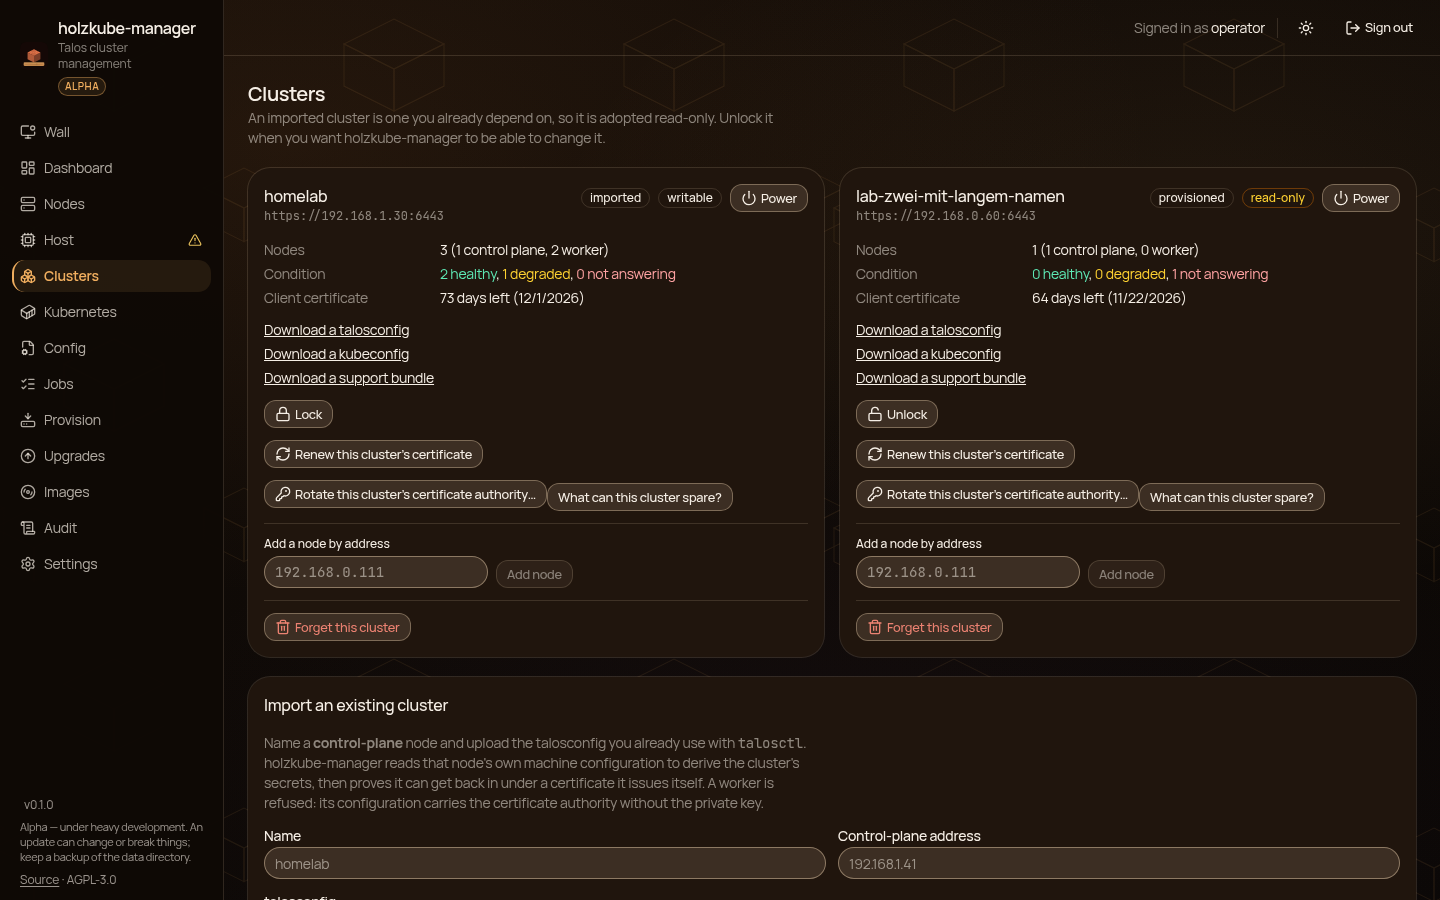
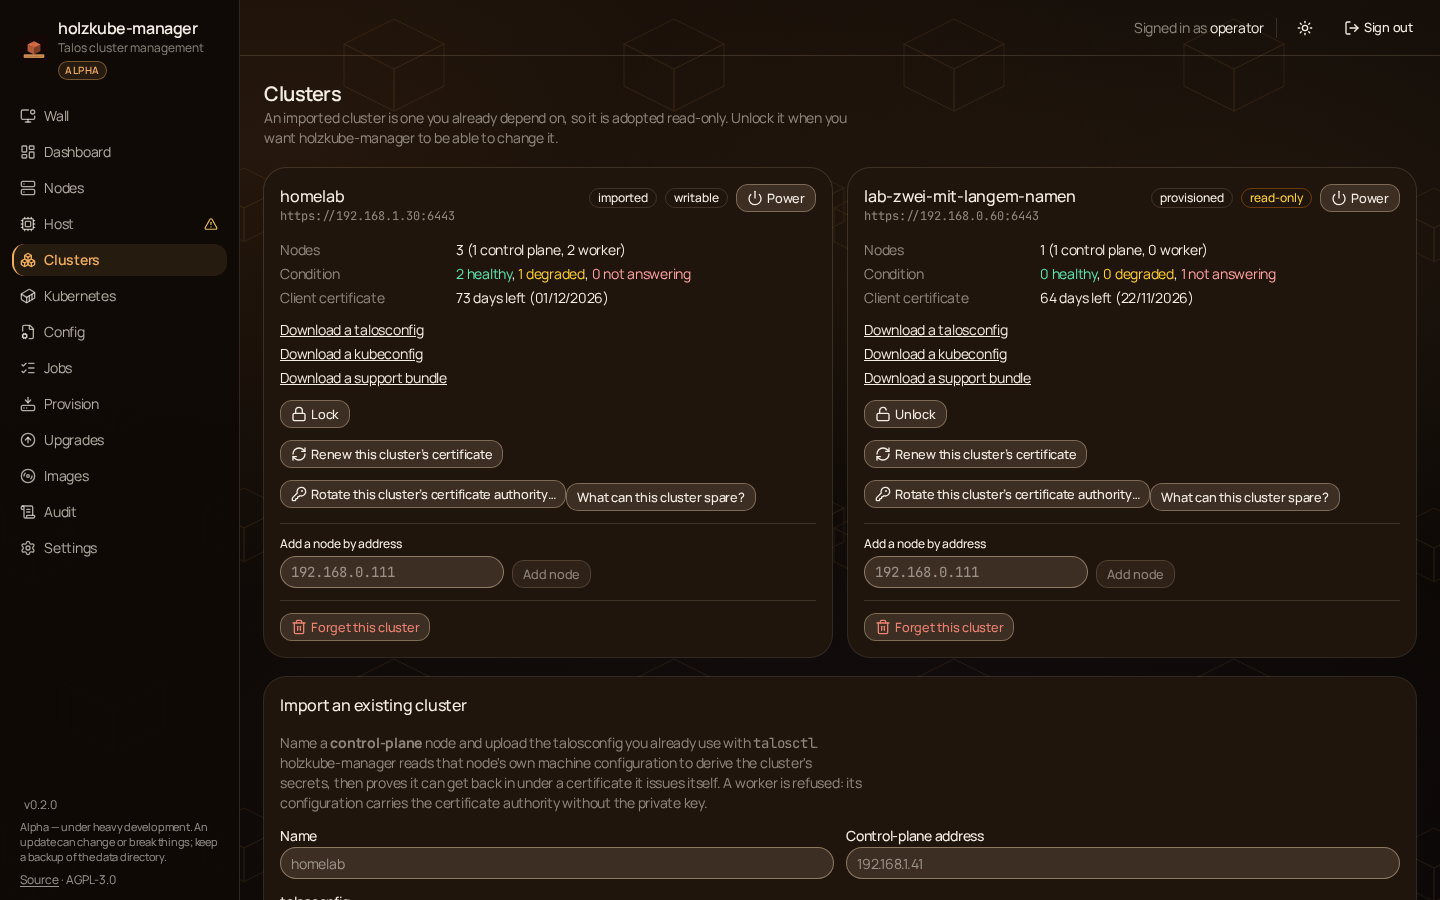
fix: the navigation's name and tagline fit on one line each
At 224px the text beside the mark had 145px: the tagline (146px) broke
onto two lines and the name, kept on one line, ran past the bar's edge
wherever the font rendered a little wider. The bar is 240px now; a
Chromium test requires 8px to spare on the desk and in the phone
drawer, seen red against 224px. Screenshots with the sidebar re-rendered
with a v0.2.0 binary.

diff --git a/web/src/components/Sidebar.browser.test.tsx b/web/src/components/Sidebar.browser.test.tsx
@@ -1,0 +1,111 @@
+import { QueryClient, QueryClientProvider } from '@tanstack/react-query'
+import {
+  createMemoryHistory,
+  createRootRoute,
+  createRoute,
+  createRouter,
+  Outlet,
+  RouterProvider,
+} from '@tanstack/react-router'
+import { cleanup, render, screen } from '@testing-library/react'
+import { afterEach, beforeEach, describe, expect, it, vi } from 'vitest'
+import { page } from 'vitest/browser'
+import { api, hostSchema } from '@/api'
+// Imported for its effect: the bar's width, the font and the nowrap come from
+// Tailwind classes and the Manrope face this entry point pulls in; without it
+// the measurement measures the browser's defaults and nothing of ours.
+import '@/index.css'
+import demo from '../../fixtures/demo.json'
+import { Sidebar } from './Sidebar'
+
+/**
+ * The brand block at the top of the navigation reads on one line each: the
+ * name, and the tagline under it.
+ *
+ * At 224px the text beside the mark had 145px; the tagline needs 146px and
+ * broke onto two lines, and the name, kept on one line by nowrap, ran past the
+ * bar's right edge wherever the font came out a little wider -- which is how
+ * it was noticed, on a picture of the app. Measured here in Chromium with the
+ * product's own font, on the desk and in the phone drawer.
+ */
+
+function renderSidebar(open: boolean) {
+  const rootRoute = createRootRoute({
+    component: () => (
+      <>
+        <Sidebar open={open} />
+        <Outlet />
+      </>
+    ),
+  })
+  const home = createRoute({ getParentRoute: () => rootRoute, path: '/', component: () => null })
+  const router = createRouter({
+    routeTree: rootRoute.addChildren([home]),
+    history: createMemoryHistory({ initialEntries: ['/'] }),
+  })
+  const client = new QueryClient({ defaultOptions: { queries: { retry: false } } })
+  render(
+    <QueryClientProvider client={client}>
+      <RouterProvider router={router} />
+    </QueryClientProvider>,
+  )
+}
+
+async function brandBlock() {
+  const nav = await screen.findByRole('navigation', { name: 'Main navigation' })
+  await document.fonts.ready
+  const name = await screen.findByText('holzkube-manager')
+  const tagline = screen.getByText('Talos cluster management')
+  return { nav, name, tagline }
+}
+
+/**
+ * Room each line must leave before the bar's edge. The same text comes out a
+ * few pixels wider from one machine's font rendering to the next -- in this
+ * browser the tagline needs exactly the 146px the old 224px bar left it, in the
+ * app it got 145px and broke -- so fitting with nothing to spare is the defect,
+ * not a pass.
+ */
+const SLACK_PX = 8
+
+function expectOneLineEach({ nav, name, tagline }: Awaited<ReturnType<typeof brandBlock>>) {
+  // The row the mark and the two lines sit in, inside the bar's padding and
+  // its own: its content edge is where a line stops being inside the brand
+  // block. (The column holding the lines is only as wide as its widest line,
+  // so measuring against it would always find exactly zero room.)
+  const row = (name.parentElement as HTMLElement).parentElement as HTMLElement
+  const inner =
+    row.getBoundingClientRect().right - Number.parseFloat(getComputedStyle(row).paddingRight)
+  expect(inner).toBeLessThanOrEqual(nav.getBoundingClientRect().right)
+  // The name ends inside the bar with room to spare, not on or past its border.
+  expect(name.getBoundingClientRect().right).toBeLessThanOrEqual(inner - SLACK_PX)
+  // The tagline is one line tall and ends inside the bar too.
+  const lineHeight = Number.parseFloat(getComputedStyle(tagline).lineHeight)
+  expect(tagline.getBoundingClientRect().height).toBeLessThan(lineHeight * 1.5)
+  expect(tagline.getBoundingClientRect().right).toBeLessThanOrEqual(inner - SLACK_PX)
+}
+
+beforeEach(() => {
+  const fixtures = demo as Record<string, unknown>
+  vi.spyOn(api, 'host').mockResolvedValue(hostSchema.parse(fixtures['/api/v1/host']))
+})
+
+afterEach(async () => {
+  cleanup()
+  vi.restoreAllMocks()
+  await page.viewport(1200, 900)
+})
+
+describe('the navigation brand block', () => {
+  it('keeps the name and the tagline on one line each at 1280 px', async () => {
+    await page.viewport(1280, 800)
+    renderSidebar(false)
+    expectOneLineEach(await brandBlock())
+  })
+
+  it('keeps them on one line each in the open drawer at 390 px', async () => {
+    await page.viewport(390, 844)
+    renderSidebar(true)
+    expectOneLineEach(await brandBlock())
+  })
+})

diff --git a/web/src/components/Sidebar.tsx b/web/src/components/Sidebar.tsx
@@ -201,7 +201,11 @@ export function Sidebar({ open = false, onNavigate }: { open?: boolean; onNaviga
     <nav
       aria-label="Main navigation"
       className={cn(
-        'flex h-full w-56 shrink-0 flex-col gap-1 border-r border-border bg-sidebar p-3',
+        // 240px and not 224: measured in Chromium with Manrope, the name needs
+        // 138px and the tagline 146px, and at 224px the text beside the mark
+        // had 145px -- the tagline broke onto two lines and, wherever the font
+        // renders a little wider, the name ran past the bar's edge.
+        'flex h-full w-60 shrink-0 flex-col gap-1 border-r border-border bg-sidebar p-3',
         // Below md: out of the flow, over the page, and off the left edge until
         // asked for. transform rather than display, so it slides rather than
         // appears -- on a phone an element that simply exists where nothing was
@@ -232,7 +236,9 @@ export function Sidebar({ open = false, onNavigate }: { open?: boolean; onNaviga
           <span className="font-heading whitespace-nowrap text-base font-semibold tracking-tight">
             holzkube-manager
           </span>
-          <p className="text-xs text-muted-foreground">Talos cluster management</p>
+          <p className="whitespace-nowrap text-xs text-muted-foreground">
+            Talos cluster management
+          </p>
           <AlphaBadge className="mt-1 inline-block" />
         </div>
       </div>
